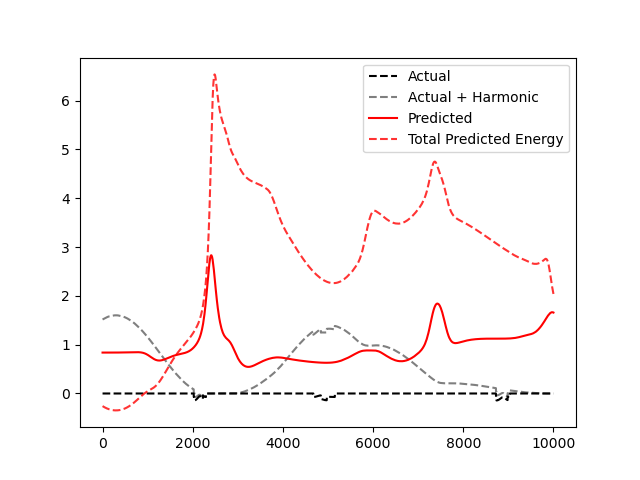
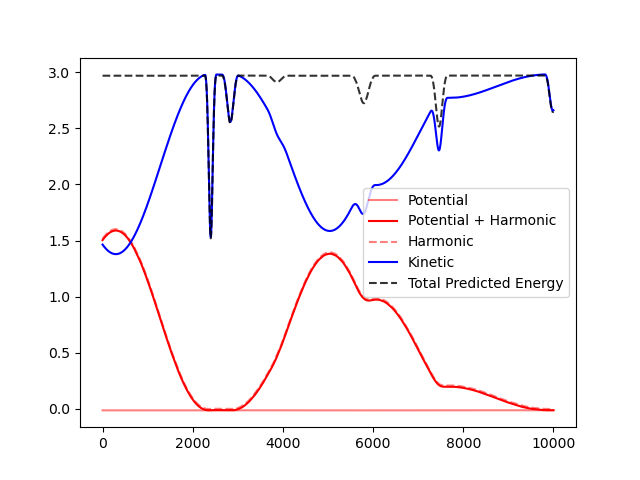
added previous loss

diff --git a/analysis/energy.py b/analysis/energy.py
@@ -53,14 +53,30 @@ if __name__ == '__main__':
     df = pd.read_csv('../dataset/single_temp_small/train/NVE-temp-0.5_K-2.38111026821677_r-2_s-1.csv')
 
     energies = df['potential_energy'].to_numpy()
+    
+    # batch_length = 5000
+    # trainer.training_dataset.update(batch_length, traj_step=10)
+        
+    # with torch.no_grad():
+    #     # get the earliest init conditions to ensure trajectories are long enough
+    #     batch_input, batch_y, _ = trainer.training_dataset[0]
+    #     batch_input = list(batch_input)
+    #     batch_input[0] = batch_input[0].unsqueeze(0)
+    #     batch_input = tuple(batch_input)
+
+    #     pred_y = trainer.forward_pass(batch_input, batch_length=batch_length).squeeze()
+    #     batch_y = batch_y.cpu().numpy()
+    #     batch_t = trainer.get_batch_t(batch_input[1], batch_length=batch_length).cpu().numpy()
+
     v, w, x, q = torch.split(trainer.training_dataset.data[0], [3, 3, 3, 4], dim=-1)
+    # v, w, x, q = torch.split(pred_y, [3, 3, 3, 4], dim=-1)
 
     r = x[:, 1, :] - x[:, 0, :]
     rq = torch.cat((r, q.reshape(-1, 8)), dim=1).reshape(-1, 11).type(torch.float32)
     
     predicted_energies = potential(rq).detach().cpu().numpy()
     
-    indices = np.random.randint(5000, size=rq.shape[0])
+    indices = np.random.randint(5, size=rq.shape[0])
 
     import matplotlib.pyplot as plt
     plt.plot(energies[indices], predicted_energies[indices], 'o')
@@ -72,32 +88,67 @@ if __name__ == '__main__':
     num_steps = 10000
 
     print('before actual')
-    plt.plot(energies[:num_steps], 'k--', label='Actual')
+    # plt.plot(energies[:num_steps], 'k--', label='Actual')
 
     k = 2.38111026821677
     r0 = 2
     harmonic_energy = (0.5 * k * torch.square(torch.norm(r, dim=1) - r0)).detach().cpu().numpy()
-    plt.plot(energies[:num_steps] + harmonic_energy[:num_steps], 'k--', alpha=0.5, label='Actual + Harmonic')
+    # plt.plot(energies[:num_steps] + harmonic_energy[:num_steps], 'k--', alpha=0.5, label='Actual + Harmonic')
 
     print('before predicted')
-    plt.plot(predicted_energies[:num_steps], 'r', label='Predicted')
+    plt.plot(predicted_energies[:num_steps], 'r', alpha=0.5, label='Potential')
+    plt.plot(predicted_energies[:num_steps].squeeze() + harmonic_energy[:num_steps].squeeze(), 'r', alpha=1.0, label='Potential + Harmonic')
+    plt.plot(harmonic_energy[:num_steps], 'r--', alpha=0.5, label='Harmonic')
 
     M = 7.0
     kinetic_energy_trans = torch.sum(torch.sum(0.5 * M * v**2, dim=-1), dim=-1)
     
     batch_input, _, _ = trainer.training_dataset[0]
     inertia = batch_input[-1]
-    kinetic_energy_rot = torch.sum(torch.sum(0.5 * inertia * w, dim=-1), dim=-1)
+    kinetic_energy_rot = torch.sum(torch.sum(0.5 * inertia * w**2, dim=-1), dim=-1)
     
     kinetic_energy = (kinetic_energy_trans + kinetic_energy_rot).detach().cpu().numpy()
 
-    total_energy = predicted_energies[:num_steps].squeeze() + kinetic_energy[:num_steps]
+    plt.plot(kinetic_energy[:num_steps], 'b-', label='Kinetic')
+
+    total_energy = predicted_energies[:num_steps].squeeze() + harmonic_energy[:num_steps] + kinetic_energy[:num_steps]
 
     print('before total')
-    plt.plot(total_energy, 'r--', alpha=0.8, label='Total Predicted Energy')
+    plt.plot(total_energy, 'k--', alpha=0.8, label='Total Predicted Energy')
     
     plt.legend()
     plt.savefig('energy.png')
     plt.close()
+
+    
+    actual_kinetic_energies = df['kinetic_energy'].to_numpy()
+    plt.plot(actual_kinetic_energies[:num_steps], 'k--', alpha=0.8, label='Actual Kinetic Energy')
+
+    predicted_kinetic_energies = kinetic_energy
+    plt.plot(predicted_kinetic_energies[:num_steps], 'r', alpha=0.5, label='Predicted Kinetic Energy')
+    plt.plot(kinetic_energy_trans.detach().cpu().numpy()[:num_steps], 'b--', alpha=0.5, label='Predicted Trans Kinetic')
+    plt.plot(kinetic_energy_rot.detach().cpu().numpy()[:num_steps], 'g-.', alpha=0.5, label='Predicted Rot Kinetic')
+
+
+    # actual_potential_energies = df['potential_energy'].to_numpy()
+    # plt.plot(actual_potential_energies[:num_steps], 'b', label='Actual Potential Energy')
+
+    # actual_total_energies = df['total_energy'].to_numpy()
+    # plt.plot(actual_total_energies[:num_steps], 'k--', label='Actual Total Energy')
+
+    plt.legend()
+    plt.savefig('actual_energy.png')
+    plt.close()
+
+
+    # ENERGIES FROM LAMMPS
+    plt.plot(df['total_energy'].to_numpy()[:num_steps], 'k', label='Total')
+    plt.plot(df['potential_energy'].to_numpy()[:num_steps], 'b', label='Potential')
+    plt.plot(df['kinetic_energy'].to_numpy()[:num_steps], 'r', label='Kinetic')
+    plt.plot(harmonic_energy[:num_steps], 'g', label='Harmonic')
+    plt.legend()
+    plt.savefig('LAMMPS_energy.png')
+    plt.close()
+
 
     # trainer.plot_traj()

diff --git a/diffmd/losses.py b/diffmd/losses.py
@@ -1,68 +1,72 @@
 import torch
 
-def all_mse(pred_y, true_y, stds, means):
+def all_mse(pred_y, true_y, stds, means, normalize=False):
     pred = list(torch.split(pred_y, [3, 3, 3, 4], dim=-1))
     true = list(torch.split(true_y, [3, 3, 3, 4], dim=-1))
     
     pred[2] = pred[2][:, :, 1, :] - pred[2][:, :, 0, :]
     true[2] = true[2][:, :, 1, :] - true[2][:, :, 0, :]
 
-    for i, mean in enumerate(means):
-        pred[i] = pred[i] - mean
-        pred[i] = pred[i] / stds[i]
-        true[i] = true[i] - mean
-        true[i] = true[i] / stds[i]
+    if normalize:
+        for i, mean in enumerate(means):
+            pred[i] = pred[i] - mean
+            pred[i] = pred[i] / stds[i]
+            true[i] = true[i] - mean
+            true[i] = true[i] / stds[i]
 
     # for i, label in enumerate(['p', 'l', 'r', 'q']):
     #     print(f'{label} mse: {torch.mean((pred[i] - true[i])**2)}')
 
     return torch.mean((pred[0] - true[0])**2) + torch.mean((pred[1] - true[1])**2) + torch.mean((pred[2] - true[2])**2) + torch.mean((pred[3] - true[3])**2)
 
-def final_mse(pred_y, true_y, stds, means):
+def final_mse(pred_y, true_y, stds, means, normalize=False):
     pred = list(torch.split(pred_y[:, -1, :, :], [3, 3, 3, 4], dim=-1))
     true = list(torch.split(true_y[:, -1, :, :], [3, 3, 3, 4], dim=-1))
 
     pred[2] = pred[2][:, 1, :] - pred[2][:, 0, :]
     true[2] = true[2][:, 1, :] - true[2][:, 0, :]
 
-    for i, mean in enumerate(means):
-        pred[i] = pred[i] - mean
-        pred[i] = pred[i] / stds[i]
-        true[i] = true[i] - mean
-        true[i] = true[i] / stds[i]
+    if normalize:
+        for i, mean in enumerate(means):
+            pred[i] = pred[i] - mean
+            pred[i] = pred[i] / stds[i]
+            true[i] = true[i] - mean
+            true[i] = true[i] / stds[i]
 
     return torch.mean((pred[0] - true[0])**2) + torch.mean((pred[1] - true[1])**2) + torch.mean((pred[2] - true[2])**2) + torch.mean((pred[3] - true[3])**2)
 
-def all_mse_pos(pred_y, true_y, stds, means):
+def all_mse_pos(pred_y, true_y, stds, means, normalize=False):
     pred = list(torch.split(pred_y, [3, 3, 3, 4], dim=-1))
     true = list(torch.split(true_y, [3, 3, 3, 4], dim=-1))
     
     pred[2] = pred[2][:, :, 1, :] - pred[2][:, :, 0, :]
     true[2] = true[2][:, :, 1, :] - true[2][:, :, 0, :]
     
-    for i, mean in enumerate(means):
-        pred[i] = pred[i] - mean
-        pred[i] = pred[i] / stds[i]
-        true[i] = true[i] - mean
-        true[i] = true[i] / stds[i]
+    if normalize:
+        for i, mean in enumerate(means):
+            pred[i] = pred[i] - mean
+            pred[i] = pred[i] / stds[i]
+            true[i] = true[i] - mean
+            true[i] = true[i] / stds[i]
 
     # for i, label in enumerate(['p', 'l', 'r', 'q']):
     #     print(f'{label} mse: {torch.mean((pred[i] - true[i])**2)}')
 
     return torch.mean((pred[2] - true[2])**2) + torch.mean((pred[3] - true[3])**2)
 
-def final_mse_pos(pred_y, true_y, stds, means):
+def final_mse_pos(pred_y, true_y, stds, means, normalize=False):
     pred = list(torch.split(pred_y[:, -1, :, :], [3, 3, 3, 4], dim=-1))
     true = list(torch.split(true_y[:, -1, :, :], [3, 3, 3, 4], dim=-1))
 
     pred[2] = pred[2][:, 1, :] - pred[2][:, 0, :]
     true[2] = true[2][:, 1, :] - true[2][:, 0, :]
 
-    for i, mean in enumerate(means):
-        pred[i] = pred[i] - mean
-        pred[i] = pred[i] / stds[i]
-        true[i] = true[i] - mean
-        true[i] = true[i] / stds[i]
+    if normalize:
+        for i, mean in enumerate(means):
+            pred[i] = pred[i] - mean
+            pred[i] = pred[i] / stds[i]
+            true[i] = true[i] - mean
+            true[i] = true[i] / stds[i]
 
     return torch.mean((pred[2] - true[2])**2) + torch.mean((pred[3] - true[3])**2)
 

diff --git a/diffmd/training.py b/diffmd/training.py
@@ -84,6 +84,7 @@ class Trainer():
 
         self.weight_decay = config['weight_decay']
         self.loss_func = self.set_loss_func(self.loss_func_name)
+        self.normalize_loss = config['normalize_loss']
         self.optimizer = self.set_optimizer(self.optimizer_name)
         self.scheduler = self.set_scheduler(self.scheduler_name, self.scheduling_factor)
         
@@ -151,7 +152,7 @@ class Trainer():
                 if self.loss_func_name == 'energy':
                     loss = self.loss_func(self.func.net, pred_y, batch_energy)
                 else:
-                    loss = self.loss_func(pred_y, batch_y, self.training_dataset.stds, self.training_dataset.means)
+                    loss = self.loss_func(pred_y, batch_y, self.training_dataset.stds, self.training_dataset.means, self.normalize_loss)
 
                 # backward pass      
                 loss.backward() 

diff --git a/data/reader.py b/data/reader.py
@@ -26,6 +26,8 @@ class Reader():
         labels, lines = self.read_simulation_log()
         data = np.array(lines)
         df['potential_energy'] = data[:, labels.index('PotEng')]
+        df['kinetic_energy'] = data[:, labels.index('KinEng')]
+        df['total_energy'] = data[:, labels.index('TotEng')]
 
         # save to csv
         df.to_csv(self.file_name+'.csv', index=False)
